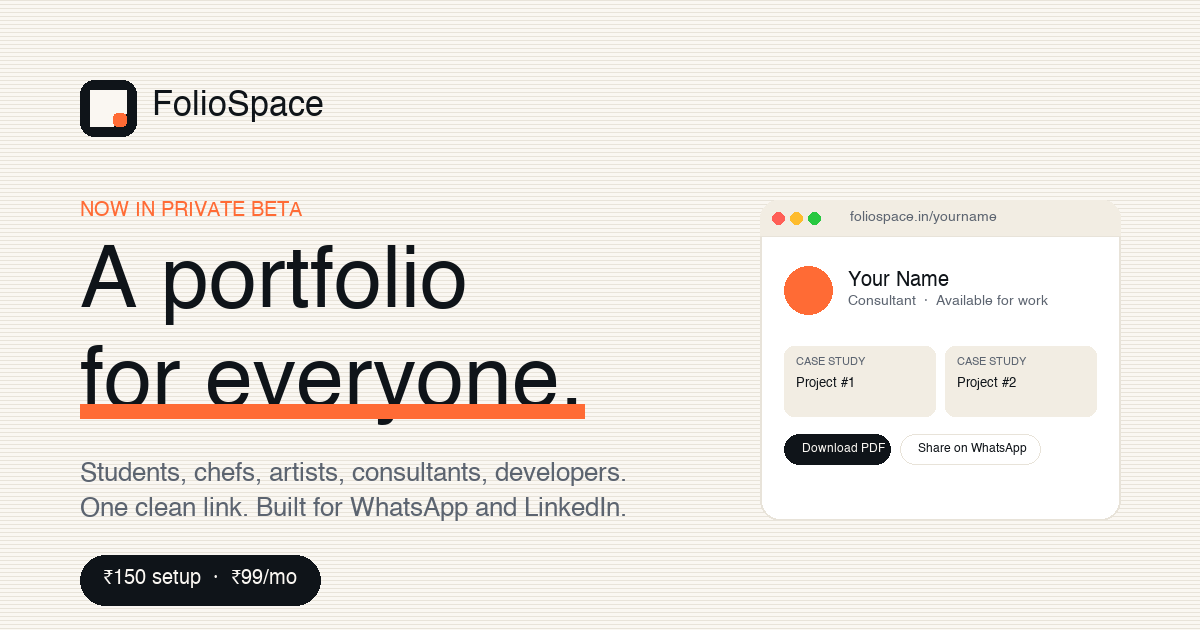
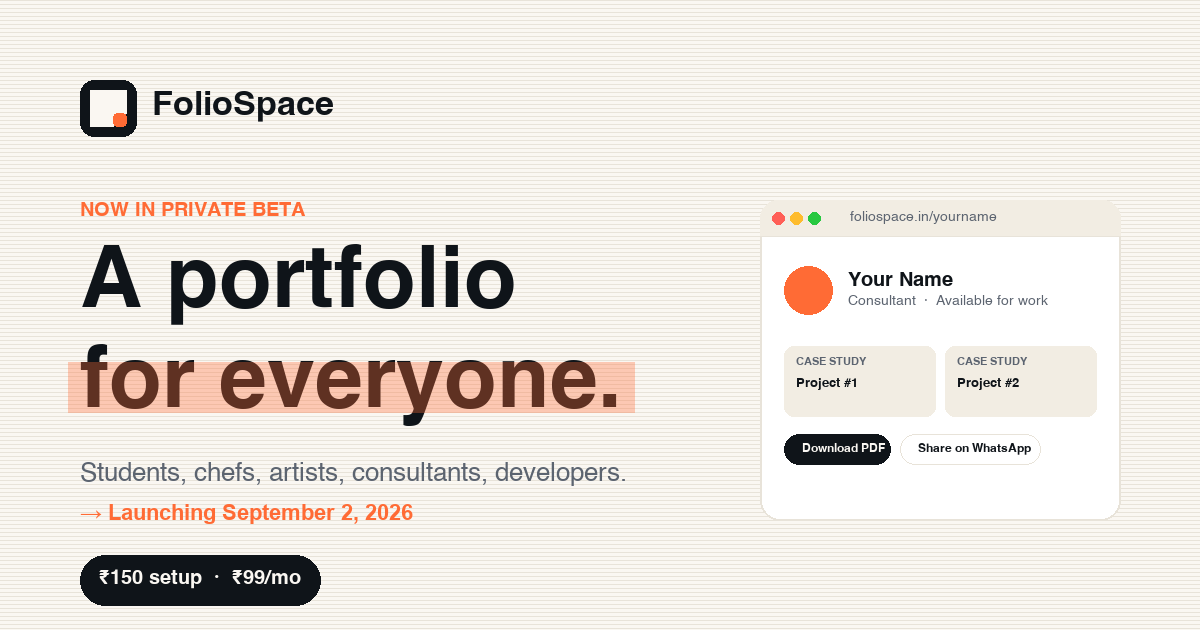
OG image: translucent highlighter + launch date
- Highlighter under "for everyone." was a solid orange bar that read
  as a strike-through. Now uses an RGBA overlay at ~33% alpha — proper
  editorial highlighter, text reads cleanly through it.
- Added a third subtitle line "→ Launching September 2, 2026" so the
  share preview tells viewers when it goes live, matching the landing
  page and welcome email.
- Font loader now uses Helvetica.ttc face 1 (Bold) by default for the
  cleaner editorial feel. Added font_arial_bold() for the launch date
  line since Helvetica.ttc lacks the → glyph (U+2192).

diff --git a/scripts/generate_og.py b/scripts/generate_og.py
@@ -25,15 +25,44 @@ def font(size, weight="Regular"):
     for path in candidates.get(weight, candidates["Regular"]):
         if Path(path).exists():
             try:
-                return ImageFont.truetype(path, size)
-            except OSError:
+                face_index = 1 if weight == "Bold" else 0
+                return ImageFont.truetype(path, size, index=face_index)
+            except (OSError, TypeError):
                 continue
     return ImageFont.load_default()
+
+
+def font_arial_bold(size):
+    path = "/System/Library/Fonts/Supplemental/Arial Bold.ttf"
+    if Path(path).exists():
+        try:
+            return ImageFont.truetype(path, size)
+        except OSError:
+            pass
+    return font(size, "Bold")
 
 
 def measure(draw, text, fnt):
     bbox = draw.textbbox((0, 0), text, font=fnt)
     return bbox[2] - bbox[0], bbox[3] - bbox[1]
+
+
+def highlight_text(img, x, y, text, fnt, hl_color, hl_alpha=85, pad_x=12):
+    draw = ImageDraw.Draw(img)
+    bbox = draw.textbbox((0, 0), text, font=fnt)
+    w = bbox[2] - bbox[0]
+    h = bbox[3] - bbox[1]
+    overlay = Image.new("RGBA", img.size, (0, 0, 0, 0))
+    od = ImageDraw.Draw(overlay)
+    bar_top = y + int(h * 0.28)
+    bar_bot = y + int(h * 0.88)
+    od.rectangle(
+        [x - pad_x, bar_top, x + w + pad_x, bar_bot],
+        fill=(*hl_color, hl_alpha),
+    )
+    img_rgba = img.convert("RGBA")
+    img_rgba.alpha_composite(overlay)
+    return img_rgba.convert("RGB")
 
 
 def main():
@@ -85,13 +114,15 @@ def main():
     draw.text((80, 340), title2, fill=INK, font=f_title)
 
     f_under = font(86, "Bold")
-    u_w, _ = measure(draw, "for everyone.", f_under)
-    draw.rectangle([80, 340 + 64, 80 + u_w, 340 + 78], fill=(255, 107, 53, 90))
+    img = highlight_text(img, 80, 340, "for everyone.", f_under, ACCENT, hl_alpha=85)
+    draw = ImageDraw.Draw(img)
 
     f_sub = font(26, "Regular")
     sub = "Students, chefs, artists, consultants, developers."
     draw.text((80, 460), sub, fill=MUTED, font=f_sub)
-    draw.text((80, 495), "One clean link. Built for WhatsApp and LinkedIn.", fill=MUTED, font=f_sub)
+
+    f_launch = font_arial_bold(22)
+    draw.text((80, 500), "→ Launching September 2, 2026", fill=ACCENT, font=f_launch)
 
     pill_x, pill_y, pill_w, pill_h = 80, 555, 240, 50
     draw.rounded_rectangle(
